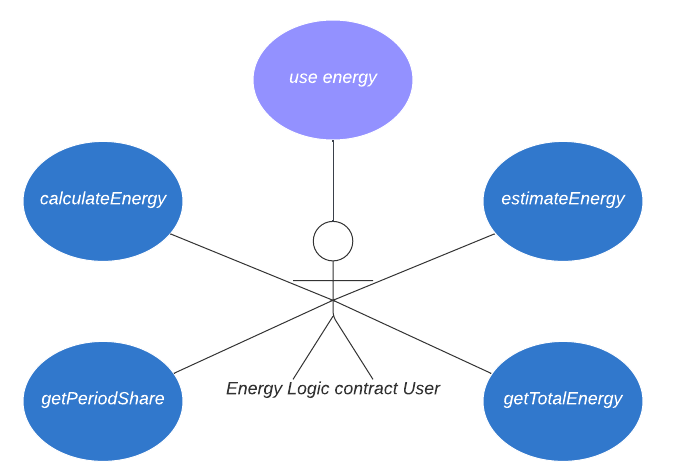
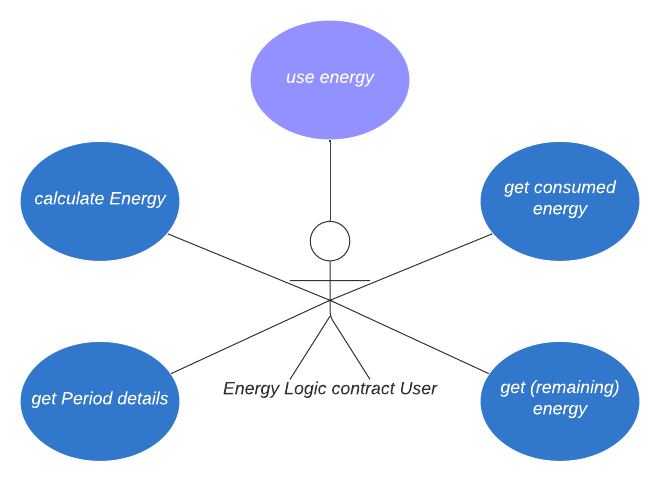
docs updated

diff --git a/audit/converter_uc.md b/audit/converter_uc.md
@@ -8,65 +8,65 @@ Status: <br>
 - [ ] AUDITED
 - [ ] PASSED & PUBLIC
 
-## Energy Converter Storage use cases
+## Energy Converter Manager use cases
 
-![Energy Converter Storage use cases](assets/converter_storage_uc.png)
+![Energy Converter admin use cases](assets/converter_storage_uc.png)
 
-    Owner is a DAO address, all the decisions should be made/approved by the majority of members.
+    Manager is a DAO address, all the decisions should be made/approved by the majority of members.
 
-### Setup new mining period `setupPeriod()`
+### Setup new mining period `addPeriod()`
 
-The Owner can set up a new mining period: start, finish, and token multipliers.
+Manager can set up a new mining period: start, finish, and token multipliers.
 
-### Set storage manager (OZ AccessControl.sol)
+### Update existing mining period `updatePeriod()`
 
-The Owner can set/update the address of the logic contract that is allowed to do CRUD operations. We use `OZ's AccessControl`.
+Manager can update a mining period: start, finish, and token multipliers.
 
-### Update Balance (CRUD operation) `updateBalance()` **_onlyManager_**
+### Set manager / controller/ user roles (OZ AccessControl.sol)
 
-The Manager (a logic contract) can set/update the balance of the specified wallet.
+The Manager can set/update the addresses of the logic contract that is allowed to do write operations. We use `OZ's AccessControl`.
 
-### Pause (OZ Pausable.sol) `pause()` _onlyOwner _
+### Pause (OZ Pausable.sol) `pause()`
 
-The Owner can pause the contract, which should stop both, staking, and unstaking. Effectively, it means no one can withdraw their funds or add more funds.
+The Manager can pause the contract, which should stop both, staking, and unstaking. Effectively, it means no one can withdraw their funds or add more funds.
 
-### Unpause (OZ Pausable.sol) `unpause()` _onlyOwner_
+### Unpause (OZ Pausable.sol) `unpause()` _onlyManager_
 
-The Owner can unpause paused contract to allow staking and unstaking again.
-
-### Transfer ownership (OZ Ownable.sol) `transferOwnership()` _onlyOwner_
-
-It will be done at least once, automatically, at contract creation. After the contract was created, the ownership will be transferred to the specified address DAO.
+The Manager can unpause paused contract to allow staking and unstaking again.
 
 <br>
 
-## Energy Converter Logic use cases
+## Energy Converter User use cases
 
 ![Staking Logic contracts use cases](assets/converter_logic_uc.png)
 
-### Calculate the amount of energy available `calculateEnergy()`
+### Calculate the amount of energy earned so far `calculateEnergy()`
 
 How much energy is mined by the specific user.
 
-### Get the total amount of energy in the pool `getTotalEnergy()`
+### Get the amount of energy already spent `getConsumedEnergy()`
 
-How much energy is in the pool.
+Returns the amount of energy that was already spent by user.
 
-### Estimate current energy production rate `estimateEnergy()`
+### Get remaining energy `getEnergy()`
 
-Returns the amount of energy per day that can be generated by all of the user's current stakes.
+getEnergy = earned Energy - consumed Energy
 
-### Get current event’s Energy pool share `getPoolShare()`
+### Get period details `getPeriod()`, `getCurrentPeriod()`, `getCurrentPeriodId()`
 
-Returns what is the user share of the whole event energy pool.
+Details about mining period:
+
+- `getCurrentPeriod()` - Get the current period details based on current timestamp
+- `getCurrentPeriodId()` - Get the current period id based on current timestamp
+- `getPeriod()` - Get period data by period id `periodId`
 
 <br>
 
 ## Minting contract interface
 
-### Set Minter `setMinter()` _onlyOwner_
+### Set Minter `setUser()` _onlyManager_
 
-The Owner can set/update the address of the logic contract that is allowed to do CRUD operations.
+The Manager can set/update the address of the logic contract that is allowed to do CRUD operations.
 
 ### Use Energy `useEnergy()` **_onlyUser_**
 
